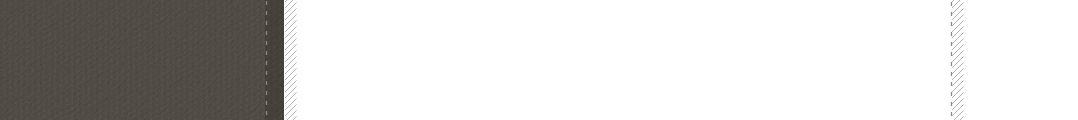
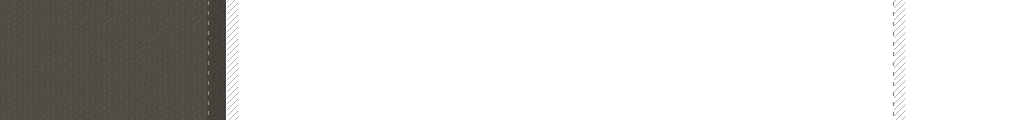
modified google api -tungnt

diff --git a/trunk/Captone/Captone/Content/Css/Index.css b/trunk/Captone/Captone/Content/Css/Index.css
@@ -5,7 +5,7 @@
 
 .container {
     background: url('../Images/sidebar.png') transparent repeat-y;
-    height: 690px;
+    height: 990px;
 }
 
 .container {
@@ -23,7 +23,7 @@
 .searchsubmit {
     position: absolute;
     top: 25px;
-    left: 195px;
+    left: 148px;
     width: 34px;
     height: 26px;
     border: 0px;
@@ -32,7 +32,7 @@
 
 .search {
     color: white;
-    width: 175px;
+    width: 128px;
     height: 26px;
     padding: 0px 10px;
     margin: 0px;
@@ -55,6 +55,7 @@
         margin-left: 15px;
         padding-top: 25px;
         margin-bottom: 20px;
+        width: 180px;
         background: url('../Images/sidebar-divider.png') no-repeat;
     }
 
@@ -85,7 +86,7 @@
     }
 
 .sf-vertical, .sf-vertical li {
-    width: 234px;
+    width: 180px;
 }
 
 #slidebar #nav > li.current-menu-item {
@@ -147,6 +148,7 @@ a > .sf-sub-indicator {
 .main {
     width: 680px;
     float: left;
+    margin-left: -50px;
 }
 
 ul.tabs {
@@ -242,6 +244,7 @@ ul.tabs {
 
 .social {
     background: url('../Images/sidebar-divider.png');
+    width: 140px;
 }
 
     .social a {
@@ -276,8 +279,8 @@ ol, ul {
 }
 
 .address-content {
-    margin-left: 74%;
-    margin-top: -52.5%;
+  margin-left: 54%;
+margin-top: -52.5%
 }
 
 .address-header {
@@ -332,3 +335,6 @@ li.viewstaff li{
             display:block;
             
         }
+.render-body {
+    margin-left: -60px;
+}

diff --git a/trunk/Captone/Captone/Content/Css/Login.css b/trunk/Captone/Captone/Content/Css/Login.css
@@ -2,7 +2,7 @@
 }
 
 .login-container {
-    margin-left: 37%;
+    margin-left: 35%;
     margin-top: 30px;
 }
 

diff --git a/trunk/Captone/Captone/Models/iDeliver.Context.cs b/trunk/Captone/Captone/Models/iDeliver.Context.cs
@@ -38,6 +38,7 @@ namespace Captone.Models
         public DbSet<Request> Requests { get; set; }
         public DbSet<Route> Routes { get; set; }
         public DbSet<Station> Stations { get; set; }
+        public DbSet<sysdiagram> sysdiagrams { get; set; }
         public DbSet<Trip> Trips { get; set; }
         public DbSet<UserInfo> UserInfoes { get; set; }
         public DbSet<Volume> Volumes { get; set; }

diff --git a/trunk/Captone/Captone/Controllers/HomeController.cs b/trunk/Captone/Captone/Controllers/HomeController.cs
@@ -100,5 +100,16 @@ namespace Captone.Controllers
             return Json(address, JsonRequestBehavior.AllowGet);
 
         }
+        public ActionResult PostRequest(FormCollection col)
+        {
+
+            return View();
+        }
+        public List<Route> SearchRoute(string routes)
+        {
+
+            var list = new List<Route>();
+            return list;
+        } 
     }
 }
